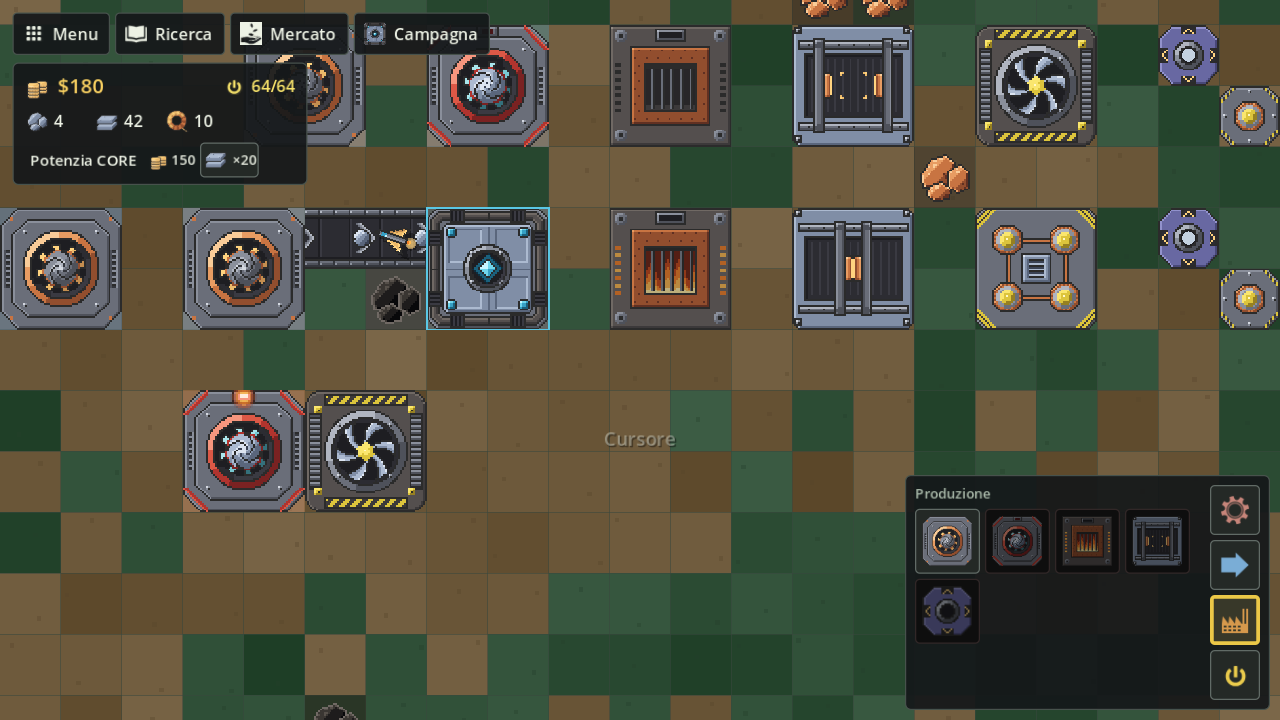
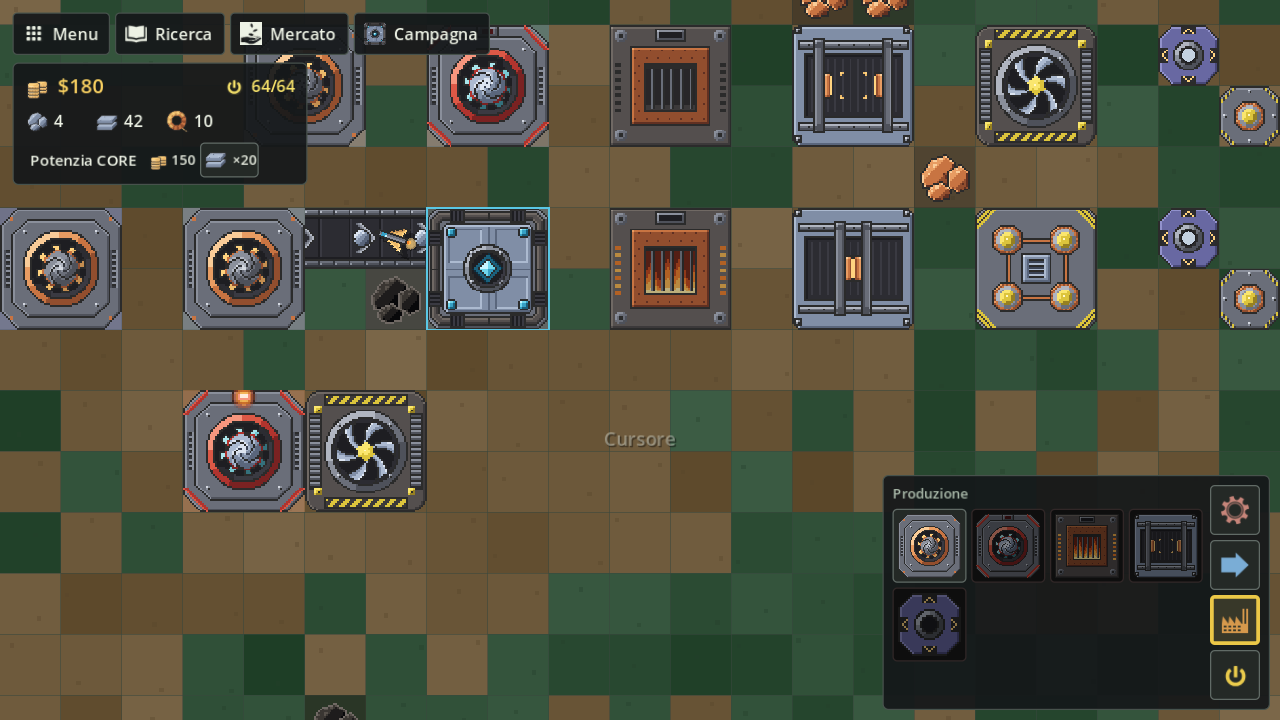
docs: rifiniture finali della G1 in ADR 0004, README e CHANGELOG
- ADR 0004: fase delle animazioni, texture condivisa dei nastri, colori del piombo, contrasto sui nastri, icone nitide, controllo in CI, misura di prestazioni con 100 edifici
- README: G1 fatta in attesa dell'ok sulla grafica, G2a in corso separata da G2b–G4; catture rifatte
- ARCHITETTURA e godot/README: playtest di prestazioni con gli edifici

Changed region(s): [[0.6875, 0.6417, 0.9375, 1.0]]

diff --git a/docs/decisioni/0004-arte-generata-da-script.md b/docs/decisioni/0004-arte-generata-da-script.md
@@ -19,11 +19,12 @@ Specifica: [2026-10-18-g1-arte-blocchi-design](../superpowers/specs/2026-10-18-g
 **Tutti gli sprite di edifici, logistica, Core, drone e oggetti escono da `python tools/art/genera.py`** (Python e Pillow, nessun asset di terzi, nessun file di Mindustry). I PNG in `godot/assets/` non si modificano a mano: si cambia lo script e si rigenera. Le icone dell'interfaccia (`godot/assets/ui/`) restano di terzi fino alla G4.
 
 - **Misure.** 32 px per cella del blocco, mostrati ×2 nel mondo (cella da 64 px) con filtro Nearest. Oggetti: `<id>.png` 32×32 per HUD e pannelli, `<id>-belt.png` 10×10 per i nastri (disegnato ×2, circa 20 px).
-- **Tavolozza e luce.** Ogni colore sta in `tools/art/palette.py`, in rampe da scuro a chiaro di 4–6 toni (test). La luce viene sempre da in alto a sinistra: bordi illuminati con la parte alta della rampa, bordi in ombra con quella bassa. Ogni forma ha un contorno scuro (`OUT`). Le rampe degli oggetti restano nella famiglia di colori di `ItemVisualColors`.
+- **Tavolozza e luce.** Ogni colore sta in `tools/art/palette.py`, in rampe da scuro a chiaro di 4–6 toni (test). La luce viene sempre da in alto a sinistra: bordi illuminati con la parte alta della rampa, bordi in ombra con quella bassa. Ogni forma ha un contorno scuro (`OUT`). I colori piatti degli oggetti in `ItemVisualColors` (punto del filtro dell'estrattore, giacimenti, terreno sotto i minatori) seguono le rampe degli oggetti, così marcatori e sprite coincidono.
 - **Nomi.** Il nome del file è l'id di `data/content.json`. Le parti hanno un suffisso (`miner-base`, `miner-drill`, `smelter-glow`, `assembler-arm`, `generator-rotor`, `miner-advanced-lamp`…); le animazioni sono strisce orizzontali `<id>-anim.png` di fotogrammi **quadrati** (lato = altezza), perché il client le taglia a quadrati. Tier: `core-1…4`, `drone-1…3`.
 - **Un solo punto d'accesso nel client.** `Sprites` (`godot/scripts/visuals/Sprites.cs`): `For`, `TryFor`, `Item`, `BeltItem`, `Frames`. Uno sprite mancante diventa un riquadro magenta con un avviso, mai un crash; un `-belt.png` mancante ripiega sull'icona grande con un avviso.
 - **Edifici a strati.** Base ferma più parti mosse dal client: trivella che gira (8 fotogrammi), bocca del forno accesa (4), rotore del generatore (4), bracci dell'assemblatore che scorrono sui binari (uno sprite, il destro specchiato; chiusi, le facce della pressa si toccano), lampada del minatore avanzato. L'icona composta `<id>.png` = base + primo fotogramma, ed è quella di palette, coda e cantieri.
-- **Nastri.** 8 fotogrammi che avanzano di 4 px ciascuno (ciclo senza cucitura, curve raccordate ai dritti, test); ogni tier scorre alla sua velocità, legata agli oggetti al secondo del nastro, come in Mindustry. La campata del ponte è una texture ripetuta alta 22 px (44 px nel mondo, circa 0,70 della cella).
+- **Nastri.** 8 fotogrammi che avanzano di 4 px ciascuno (ciclo senza cucitura, curve raccordate ai dritti, test); ogni tier scorre alla sua velocità, legata agli oggetti al secondo del nastro, come in Mindustry. Tutte le celle di un tier disegnano la stessa `AtlasTexture` (una per i dritti, una per le curve): a ogni cambio di fotogramma si sposta solo la sua regione, una volta per tier, qualunque sia il numero di celle. La campata del ponte è una texture ripetuta alta 22 px (44 px nel mondo, circa 0,70 della cella).
+- **Fase delle animazioni.** Trivelle, bocche dei forni, rotori e luce del Core partono da una fase ricavata dalla cella d'origine del blocco (`BuildingPad.Phase`), così blocchi vicini non girano all'unisono e una ricostruzione dei visual non li rimette in passo. Nei playtest la fase è 0 e gli screenshot restano deterministici.
 - **Core in 4 tier**, da 2×2 a 5×5, una sola famiglia sempre più grande, con una striscia di luce lenta sul nucleo (`core-<n>-light-anim`, 4 fotogrammi opachi sopra il nucleo: lo sostituiscono, non lo raddoppiano). In partita c'è solo `core-1` fino al sotto-progetto 4; `core-1` è anche l'icona della Ricerca.
 - **Drone in 3 tier**: alpha, beta, gamma (`drone-1…3`, 24, 28 e 32 px), visti dall'alto col muso verso Est, sagome diverse. Oggi si usa alpha.
 - **Oggetti senza tinta.** Ogni oggetto ha il suo sprite a colori, opaco e con contorno chiuso; il client non applica più `Modulate` né sagome calcolate.
@@ -37,7 +38,9 @@ Specifica: [2026-10-18-g1-arte-blocchi-design](../superpowers/specs/2026-10-18-g
 - **Luce del Core ferma nei playtest.** La luce segue un orologio del mondo che sopravvive alle ricostruzioni della grafica; con `TINDUSTRY_PLAYTEST` resta sul primo fotogramma, così gli screenshot sono stabili senza maschere.
 - **Rotore del generatore** che si ferma dove si trova quando finisce il combustibile, senza tornare a zero.
 - **`core.png` eliminato**: era una copia di `core-1` non usata dal client.
-- **Piombo verso il blu-violetto**: a 10 px minerale di ferro e di piombo sui nastri erano troppo simili.
+- **Piombo verso il blu-violetto**: a 10 px minerale di ferro e di piombo sui nastri erano troppo simili. `ItemVisualColors` (piombo e lastra, con i contorni) segue la rampa nuova.
+- **Contrasto sui nastri.** Carbone (sul nastro base scuro) e titanio (sulle frecce ciano dell'express) hanno nello sprite da 10 px il contorno scuro più un bordo chiaro di 1 px subito dentro (`BORDO_CHIARO`).
+- **Icone dei blocchi nella palette** a scala intera con filtro Nearest: 64 pixel di schermo (sprite da 32 px ×2, da 64 px ×1), con la casella adattata alla scala dell'interfaccia letta quando la griglia si ricostruisce.
 - **Vecchio generatore eliminato** (`tools/gen_structure_blocks.py`) con i PNG che scriveva.
 
 ## Conseguenze
@@ -46,4 +49,6 @@ Specifica: [2026-10-18-g1-arte-blocchi-design](../superpowers/specs/2026-10-18-g
 - **Ogni PNG nuovo vuole il suo `.import`**, generato con l'importazione di Godot a riga di comando (vedi `CLAUDE.md`).
 - **Aggiungere uno sprite** è una funzione registrata in `tools/art/blocchi/` (vedi `tools/art/README.md` e [ARCHITETTURA](../ARCHITETTURA.md#come-aggiungere-un-blocco)); nel client basta `Sprites.For(id)`.
 - **`ATTRIBUTION.md`** elenca solo le icone dell'interfaccia di terzi; gli sprite generati non hanno attribuzione.
+- **Controllo in CI.** I workflow manuali e di release installano Pillow 12.3.0 e lanciano `python -m unittest tools/art/test_genera.py` e `genera.py --controlla`; un test verifica che ogni PNG nella radice di `godot/assets/` esca dal generatore, così non rientrano sprite fatti a mano o di terzi.
+- **Prestazioni** (playtest `ui` con `TINDUSTRY_PLAYTEST_PERF=1`, 1280×720, senza VSync, 2026-10-18): 200 nastri dei tre tier più 100 edifici a strati al lavoro (25 forni, 25 assemblatori, 25 generatori, 25 minatori), FPS medio 235 e minimo 166, 844 nodi. Con i soli 200 nastri la misura precedente era 240 di media (tetto della macchina) con 526 nodi.
 - **Base degli screenshot.** La grafica nuova cambia tutte le catture dei playtest: la base va rifatta e approvata dall'utente prima di sostituire quella vecchia.

diff --git a/CHANGELOG.md b/CHANGELOG.md
@@ -13,6 +13,7 @@ Il formato è ispirato a [Keep a Changelog](https://keepachangelog.com/); il ver
 ### Documentazione
 
 - **Arte generata da script** (G1 6/6): nuovo ADR `docs/decisioni/0004-arte-generata-da-script.md` (perché da script, tavolozza e luce, nomi e tier, strisce quadrate, dipendenza da Pillow 12.3), sezione "Grafica e sprite" con "Come aggiungere lo sprite di un blocco" in `docs/ARCHITETTURA.md`, regola in `CLAUDE.md` (sprite solo da `tools/art/genera.py`, mai PNG ritoccati a mano), README con catture vere della grafica nuova e roadmap aggiornata, mappa Obsidian con la G1 fatta e la G2a in corso. Pulizia: tolti `core.png` (copia non usata di `core-1`) e `ui/settings.png` (non usata); i bracci chiusi dell'assemblatore ora si toccano senza sovrapporsi; il minerale e le lastre di piombo tendono al blu-violetto per non confondersi col ferro sui nastri; un `-belt.png` mancante dà un avviso
+- **Rifiniture finali della G1**: le parti animate (trivelle, forni, rotori, luce del Core) partono da una fase legata alla posizione del blocco, così blocchi vicini non vanno all'unisono; i nastri di un tier condividono una sola texture animata (un aggiornamento per tier, non per cella); carbone e titanio sui nastri hanno un bordo chiaro dentro il contorno scuro; le icone dei blocchi nella palette sono nitide (scala intera, filtro Nearest); i colori piatti del piombo (giacimenti, filtro dell'estrattore) seguono il blu-violetto degli sprite; l'icona Campagna passa da `Sprites`. In CI (workflow manuali e di release) girano i test del generatore e `--controlla`, con un controllo che in `godot/assets/` ci siano solo sprite generati. Il playtest di prestazioni misura anche 100 edifici a strati al lavoro (235 FPS di media, 166 di minimo, 844 nodi)
 - **Costruzione come Mindustry** (sotto-progetto 3, parte 5): nuovo ADR `docs/decisioni/0003-costruzione-come-mindustry.md` (cantiere separato e drone automatico, con le scelte prese durante i lavori: prelievo per eccesso, rimborso in punti base, annullamento graduale, celle del cantiere salvate, ordine di `Remove`). `docs/ARCHITETTURA.md` ha la sezione "Costruzione" (piani, drone, cantieri, formula, prelievo e rimborso, eventi, client), l'ordine dei sistemi con `Builder` e `Construct`, i salvataggi v11 e "Come aggiungere un blocco" con `BuildSpec` e `Factory.PlaceInstant`. `CLAUDE.md` passa ai salvataggi v11 e spiega `InstantBuild` nei test; `godot/README.md` spiega piani, cantieri, tasto destro e coda nell'HUD. Spec del sotto-progetto 3 approvata; indice delle decisioni, README e mappa Obsidian aggiornati (`tools/dev/mappa_canvas.py` scrive la mappa nel formato di Obsidian)
 - **README rinnovato**: banner, galleria di screenshot, anteprima della nuova pixel-art, tabella dei controlli, roadmap; dettagli di sviluppo in sezioni richiudibili
 - **Per Obsidian**: indice delle decisioni (`docs/decisioni.md`) e mappa del progetto (`docs/mappa-progetto.canvas`, rigenerata da `tools/dev/mappa_canvas.py`)

diff --git a/docs/ARCHITETTURA.md b/docs/ARCHITETTURA.md
@@ -170,4 +170,4 @@ tools/dev/playtest.sh ui /tmp/shots-ui          # anche: tutorial
 python tools/dev/compare_shots.py <baseline> <nuovi>
 ```
 
-`tools/dev/playtest.sh` lancia Godot con `TINDUSTRY_PLAYTEST` e un profilo dati temporaneo (`TINDUSTRY_DATA_DIR`), salva gli screenshot e `log.txt` nella cartella indicata ed esce con 0 solo se il log contiene `PLAYTEST OK` e nessun `ERROR`. Il codice dei playtest è `godot/scripts/dev/World.Playtest.cs`; durante la prova gli input reali sono ignorati. Con `TINDUSTRY_PLAYTEST_PERF=1` il playtest `ui` posa anche 200 nastri e stampa FPS medio e minimo (`PLAYTEST perf: …`), senza esito. Con `TINDUSTRY_PLAYTEST_BLOCCHI=1` costruisce ogni blocco di produzione e potenza spento e acceso e salva `ui-blocchi-spenti.png`, `ui-blocchi-accesi.png`, `ui-blocchi-zoom04.png`, `ui-blocchi-core.png` (Core e drone da vicino) e `ui-blocchi-oggetti.png` (ogni oggetto sui tre nastri), senza esito. `compare_shots.py` confronta due cartelle di screenshot ignorando la zona del contatore FPS.
+`tools/dev/playtest.sh` lancia Godot con `TINDUSTRY_PLAYTEST` e un profilo dati temporaneo (`TINDUSTRY_DATA_DIR`), salva gli screenshot e `log.txt` nella cartella indicata ed esce con 0 solo se il log contiene `PLAYTEST OK` e nessun `ERROR`. Il codice dei playtest è `godot/scripts/dev/World.Playtest.cs`; durante la prova gli input reali sono ignorati. Con `TINDUSTRY_PLAYTEST_PERF=1` il playtest `ui` posa anche 200 nastri e 100 edifici a strati al lavoro (forni, assemblatori, generatori, minatori) e stampa FPS medio e minimo e numero di nodi (`PLAYTEST perf: …`), senza esito. Con `TINDUSTRY_PLAYTEST_BLOCCHI=1` costruisce ogni blocco di produzione e potenza spento e acceso e salva `ui-blocchi-spenti.png`, `ui-blocchi-accesi.png`, `ui-blocchi-zoom04.png`, `ui-blocchi-core.png` (Core e drone da vicino) e `ui-blocchi-oggetti.png` (ogni oggetto sui tre nastri), senza esito. `compare_shots.py` confronta due cartelle di screenshot ignorando la zona del contatore FPS.

diff --git a/README.md b/README.md
@@ -110,8 +110,9 @@ Il lavoro procede per sotto-progetti, ognuno con spec, piano, revisioni e un [di
 | Fatto | **1 · Riordino** | Struttura del repo, documentazione, avvio di sviluppo in un comando |
 | Fatto | **2 · Simulazione a comandi** | Tick fisso a 60/s, sistemi in ordine fisso, comandi validati, istantanea con checksum, base per il co-op |
 | Fatto | **3 · Costruzione come Mindustry** | Piani in coda, drone che vola e costruisce, cantieri con consumo e rimborso graduali ([ADR 0003](docs/decisioni/0003-costruzione-come-mindustry.md)) |
-| Fatto | **G1 · Arte dei blocchi** | Pixel-art nostra generata da script: edifici a strati con parti animate, nastri a tre tier, oggetti, Core in 4 tier, droni alpha / beta / gamma ([ADR 0004](docs/decisioni/0004-arte-generata-da-script.md)) |
-| In corso | **G2–G4 · Upgrade grafico** | Mappe e terreno, effetti e luci, interfaccia |
+| Fatto, in attesa dell'ok sulla grafica | **G1 · Arte dei blocchi** | Pixel-art nostra generata da script: edifici a strati con parti animate, nastri a tre tier, oggetti, Core in 4 tier, droni alpha / beta / gamma ([ADR 0004](docs/decisioni/0004-arte-generata-da-script.md)) |
+| In corso | **G2a · Mappe e terreno** | Mappe a seme in 3 misure, biomi, pareti, acqua, mappe della campagna in file |
+| Previsto | **G2b–G4 · Upgrade grafico** | Arte del terreno, effetti e luci, interfaccia |
 | Previsto | **4 · Drone e tier** | Il drone lo comandi tu; CORE shard → foundation → nucleus e droni alpha → beta → gamma |
 | Previsto | **5 · Co-op** | Server C# e sincronizzazione ibrida ([ADR 0002](docs/decisioni/0002-sincronizzazione-ibrida.md)) |
 
